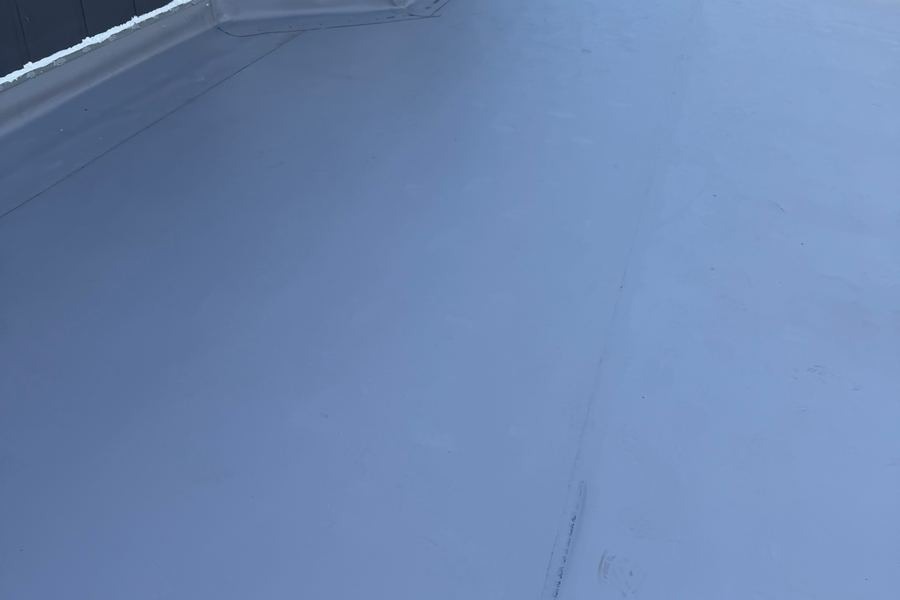
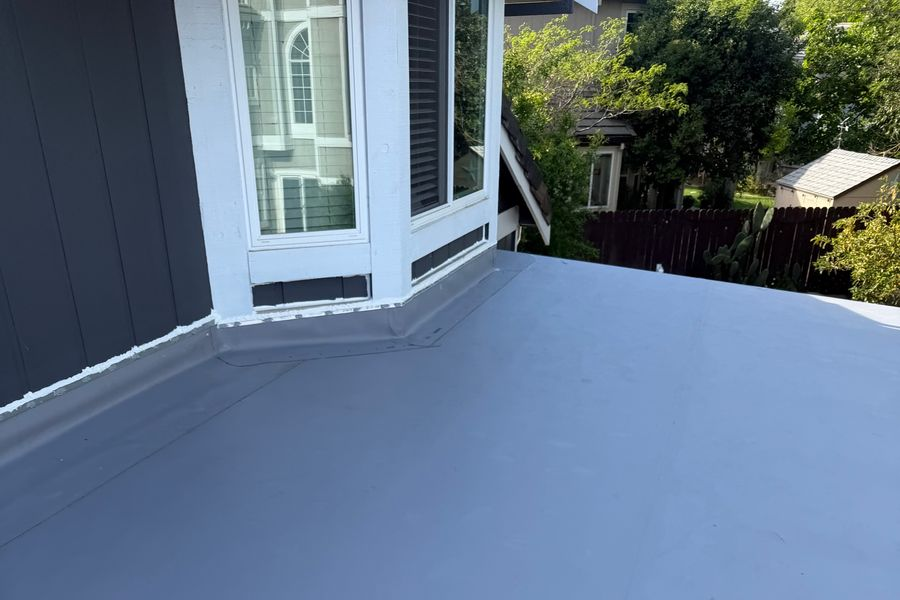
Show more context in TPO photo; owner's name is Juan Camarillo

diff --git a/index.html b/index.html
@@ -793,7 +793,7 @@
 <!-- OUR WORK -->
 <!--
   Photos: images/gallery/NN.jpg (full size) + NN-thumb.jpg (4:3 crop).
-  Videos: videos/NAME.mp4 + NAME.jpg poster, muted, trimmed from John's originals.
+  Videos: videos/NAME.mp4 + NAME.jpg poster, muted, trimmed from Juan's originals.
 -->
 <section class="work" id="work">
   <div class="reveal">
@@ -859,7 +859,7 @@
     <div class="section-label">Get in Touch</div>
     <h2 class="section-title">Request a<br>Free Estimate</h2>
     <p class="section-desc" style="margin-bottom:1.25rem">Reach out today and we'll get back to you within 24 hours with a no-obligation quote.</p>
-    <p style="font-size:0.9rem;color:var(--slate);font-weight:500;margin-bottom:2.5rem">— <em>John Camarillo</em>, Owner &amp; Founder</p>
+    <p style="font-size:0.9rem;color:var(--slate);font-weight:500;margin-bottom:2.5rem">— <em>Juan Camarillo</em>, Owner &amp; Founder</p>
 
     <div class="contact-info-item">
       <div class="contact-icon">
